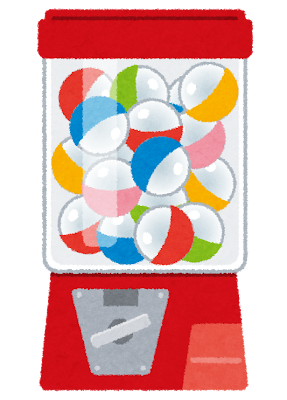
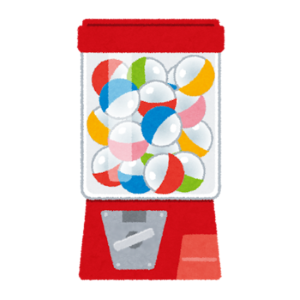
update: ガチャがgifで動くように

diff --git a/src/App.tsx b/src/App.tsx
@@ -6,6 +6,10 @@ export default function App() {
   const [items, setItems] = useState<GachaItem[]>([]);
   const [history, setHistory] = useState<GachaItem[]>([]);
   const [result, setResult] = useState<GachaItem | null>(null);
+  const [isSpinning, setIsSpinning] = useState(false);
+  const [animationKey, setAnimationKey] = useState(0);
+
+  const GACHA_ANIMATION_TIME = 4700;
 
   useEffect(() => {
     const loadItems = async () => {
@@ -21,23 +25,39 @@ export default function App() {
     setHistory(getHistory());
   }, []);
 
-  const handleGacha = () => {
-    if (items.length > 0) {
-      try {
-        const selectedItem = performGacha(items);
+  const handleGacha = async () => {
+    setAnimationKey(Date.now());
+    setIsSpinning(true);
+    setResult(null);
+
+    try {
+      // 通信とアニメーション待機を並列実行
+      const [latestItems] = await Promise.all([
+        fetchGachaItems(),
+        new Promise((resolve) => setTimeout(resolve, GACHA_ANIMATION_TIME)),
+      ]);
+
+      setItems(latestItems);
+
+      if (latestItems.length > 0) {
+        const selectedItem = performGacha(latestItems);
         setResult(selectedItem);
         saveToHistory(selectedItem);
         setHistory(getHistory());
+
+        setIsSpinning(false);
 
         setTimeout(() => {
           const modal = document.getElementById("gacha_modal") as HTMLDialogElement;
           if (modal) {
             modal.showModal();
           }
-        }, 0);
-      } catch (error) {
-        console.error("Gacha failed:", error);
+        }, 100);
       }
+    } catch (error) {
+      console.error("Gacha failed:", error);
+      setIsSpinning(false);
+      alert("通信に失敗しました。もう一度お試しください。");
     }
   };
 
@@ -52,24 +72,39 @@ export default function App() {
 
         <h1 className="mb-8 text-center text-4xl font-bold">昼ごはんガチャ</h1>
         <div className="flex flex-col items-center gap-3">
-          <img src="/gacha.png" alt="ガチャガチャの画像" className="w-40" />
+          <div className="flex h-64 items-center justify-center">
+            {isSpinning ? (
+              <img
+                src={`/gacha.gif?t=${animationKey}`}
+                alt="ガチャを回しています"
+                className="w-64"
+              />
+            ) : (
+              <img src="/gacha.png" alt="ガチャガチャの画像" className="w-64" />
+            )}
+          </div>
+
           <button
             onClick={handleGacha}
-            className="btn btn-primary btn-lg text-2xl text-white"
+            disabled={isSpinning}
+            className={`btn btn-primary btn-lg text-2xl text-white ${isSpinning ? "loading" : ""}`}
           >
-            ガチャる
+            {isSpinning ? "" : "ガチャる"}
           </button>
-          <button
-            onClick={() => {
-              const modal = document.getElementById("gacha_ratio_modal") as HTMLDialogElement | null;
-              if (modal) {
-                modal.showModal();
-              }
-            }}
-            className="link"
-          >
-            提供割合
-          </button>
+
+          {!isSpinning && (
+            <button
+              onClick={() => {
+                const modal = document.getElementById("gacha_ratio_modal") as HTMLDialogElement | null;
+                if (modal) {
+                  modal.showModal();
+                }
+              }}
+              className="link mt-2"
+            >
+              提供割合
+            </button>
+          )}
         </div>
 
         <dialog id="gacha_ratio_modal" className="modal">
@@ -84,22 +119,10 @@ export default function App() {
                   </tr>
                 </thead>
                 <tbody>
-                  <tr>
-                    <td>SSレア</td>
-                    <td>1%</td>
-                  </tr>
-                  <tr>
-                    <td>Sレア</td>
-                    <td>4%</td>
-                  </tr>
-                  <tr>
-                    <td>レア</td>
-                    <td>15%</td>
-                  </tr>
-                  <tr>
-                    <td>ノーマル</td>
-                    <td>80%</td>
-                  </tr>
+                  <tr><td>SSレア</td><td>1%</td></tr>
+                  <tr><td>Sレア</td><td>4%</td></tr>
+                  <tr><td>レア</td><td>15%</td></tr>
+                  <tr><td>ノーマル</td><td>80%</td></tr>
                 </tbody>
               </table>
             </div>
@@ -115,8 +138,7 @@ export default function App() {
               <div className="flex flex-col items-center gap-4">
                 <img src={result.img.url} alt={result.name} className="size-32" />
                 <p className="text-xl font-bold">{result.name}（{result.rarity[0]}）</p>
-                <p>{result.description}</p>
-                <p className="font-bold"></p>
+                <p className="text-center">{result.description}</p>
               </div>
             </div>
             <form method="dialog" className="modal-backdrop">
@@ -125,7 +147,7 @@ export default function App() {
           </dialog>
         )}
 
-        <div className="mt-4">
+        <div className="mt-8">
           <div className="collapse collapse-arrow bg-base-300">
             <input type="checkbox" />
             <div className="collapse-title text-xl font-bold">ガチャ履歴</div>
@@ -134,23 +156,26 @@ export default function App() {
                 <>
                   <div className="flex flex-col gap-4">
                     {history.map((item, index) => (
-                      <div key={index} className="flex items-center gap-4">
-                        <img src={item.img.url} alt={item.name} className="size-16" />
-                        <p>{item.name}（{item.rarity[0]}）</p>
+                      <div key={index} className="flex items-center gap-4 border-b border-base-200 pb-2 last:border-0">
+                        <img src={item.img.url} alt={item.name} className="size-16 rounded object-cover" />
+                        <div>
+                          <p className="font-bold">{item.name}</p>
+                          <p className="text-sm opacity-70">{item.rarity[0]}</p>
+                        </div>
                       </div>
                     ))}
                   </div>
-                  <div className="mt-4 flex justify-center">
+                  <div className="mt-6 flex justify-center">
                     <button
                       onClick={handleClearHistory}
-                      className="btn btn-error text-white"
+                      className="btn btn-error btn-sm text-white"
                     >
                       ガチャ履歴をクリア
                     </button>
                   </div>
                 </>
               ) : (
-                <p>履歴がありません。</p>
+                <p className="py-4 text-center">履歴がありません。</p>
               )}
             </div>
           </div>
